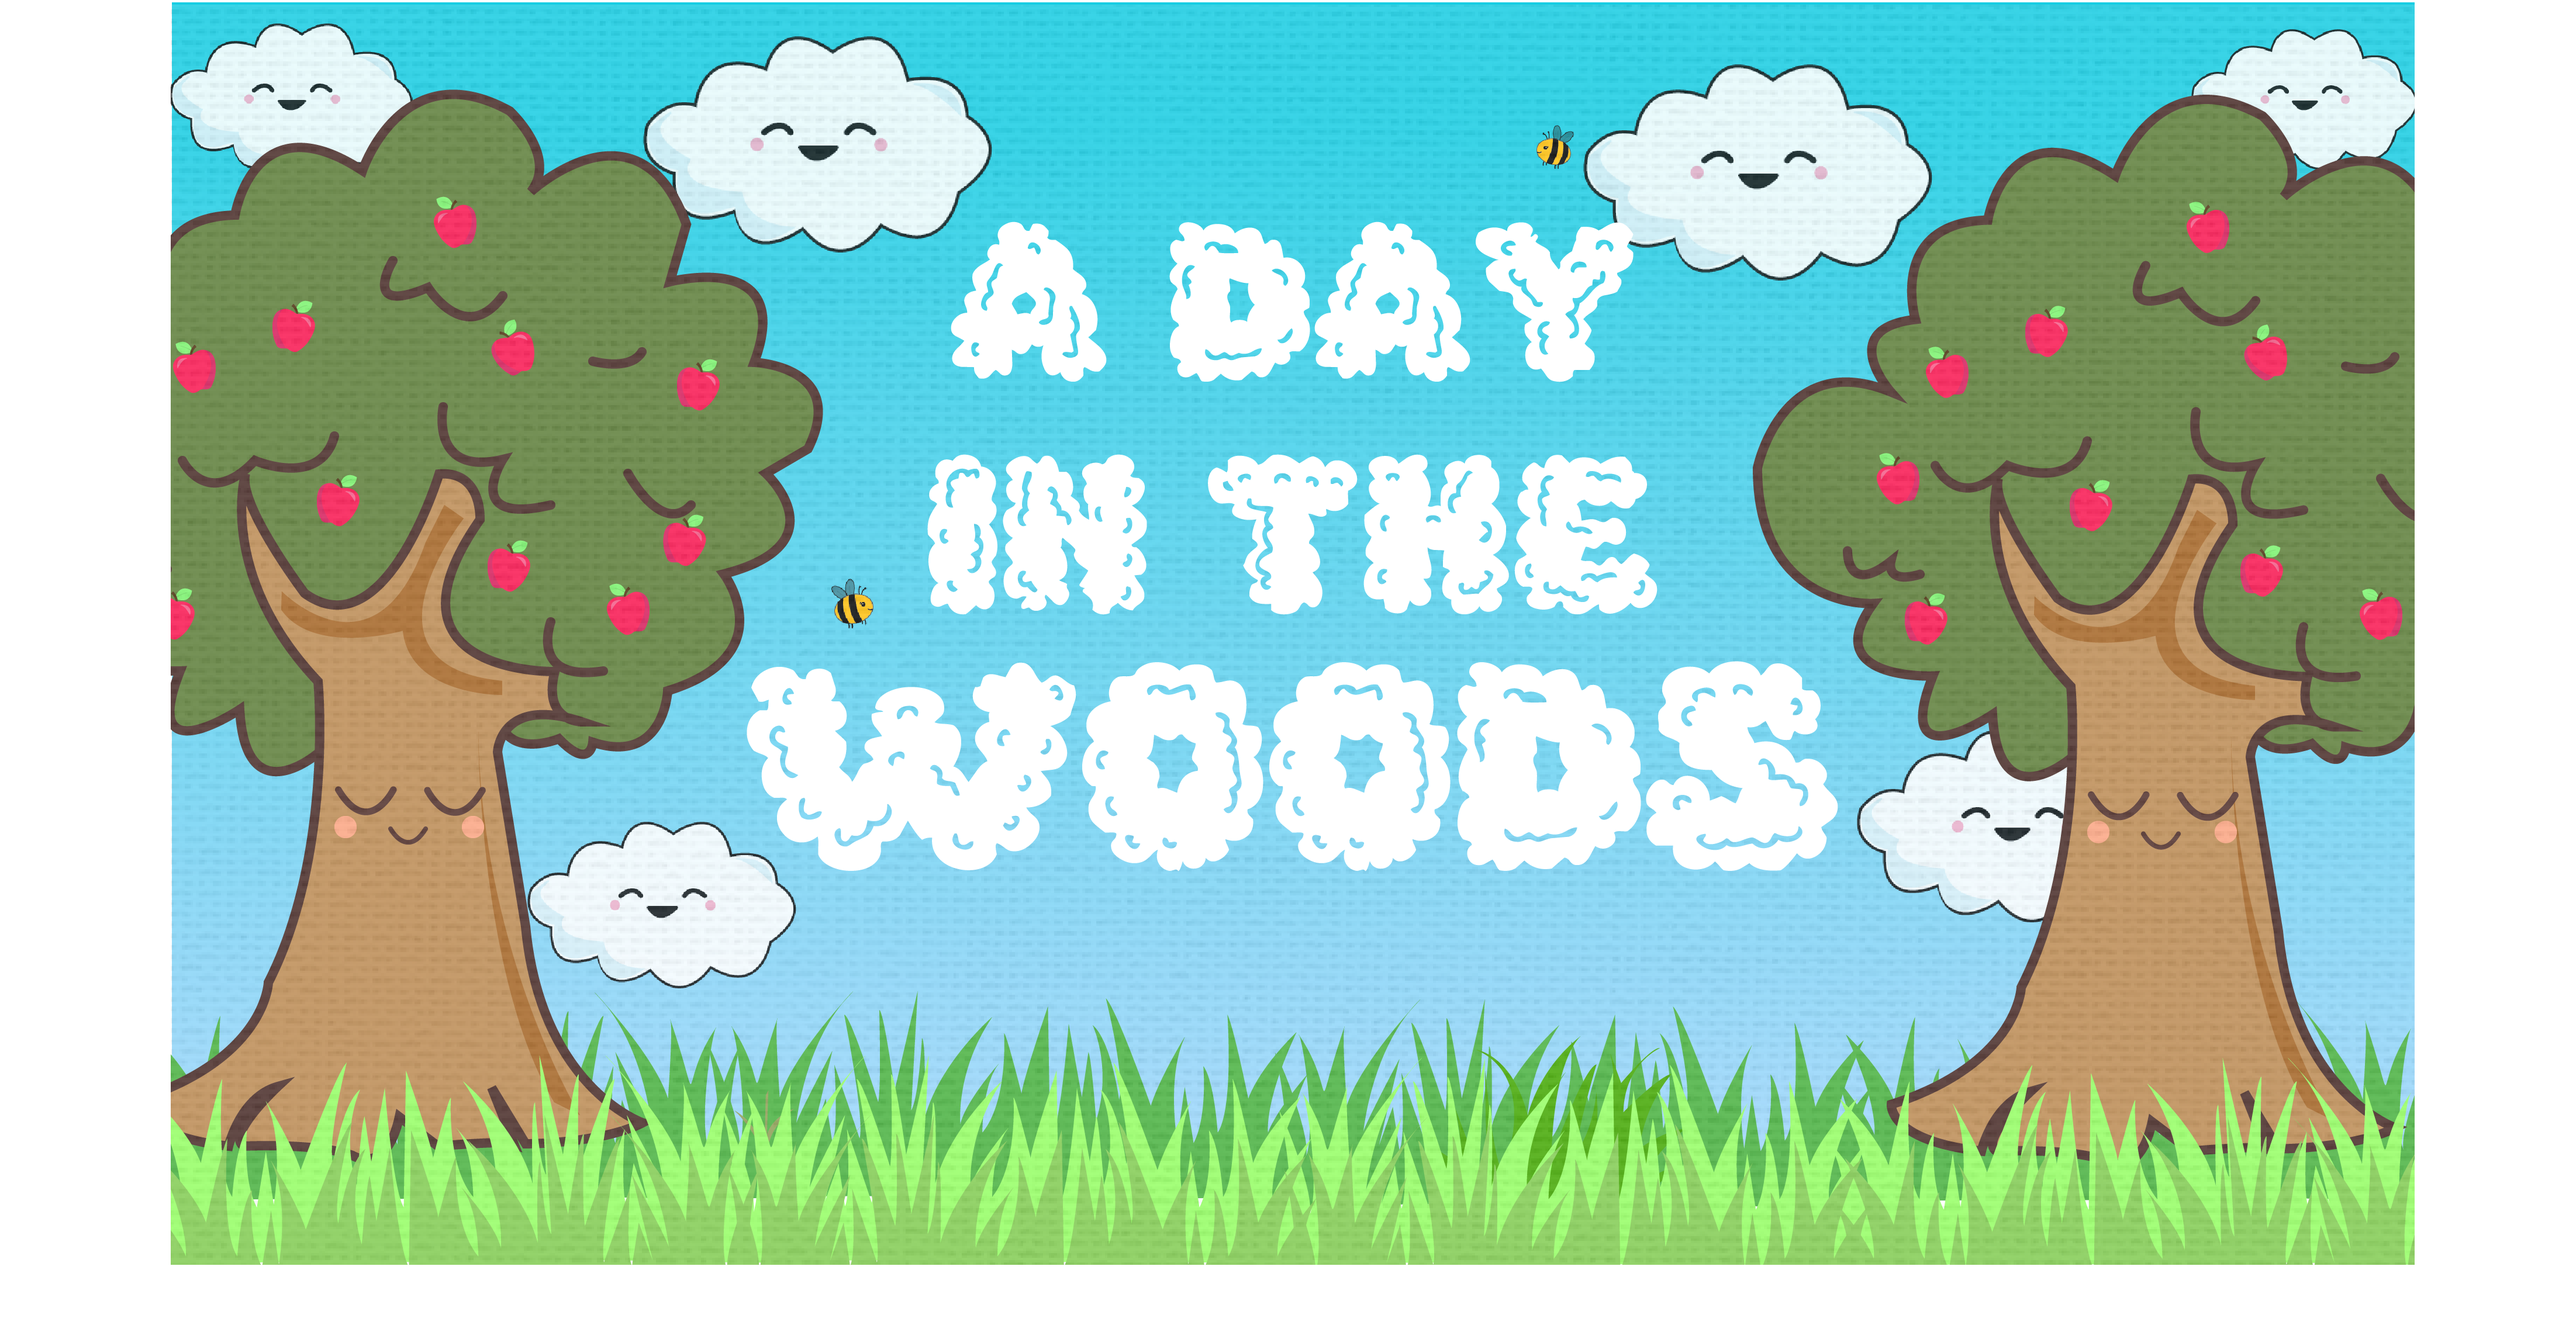
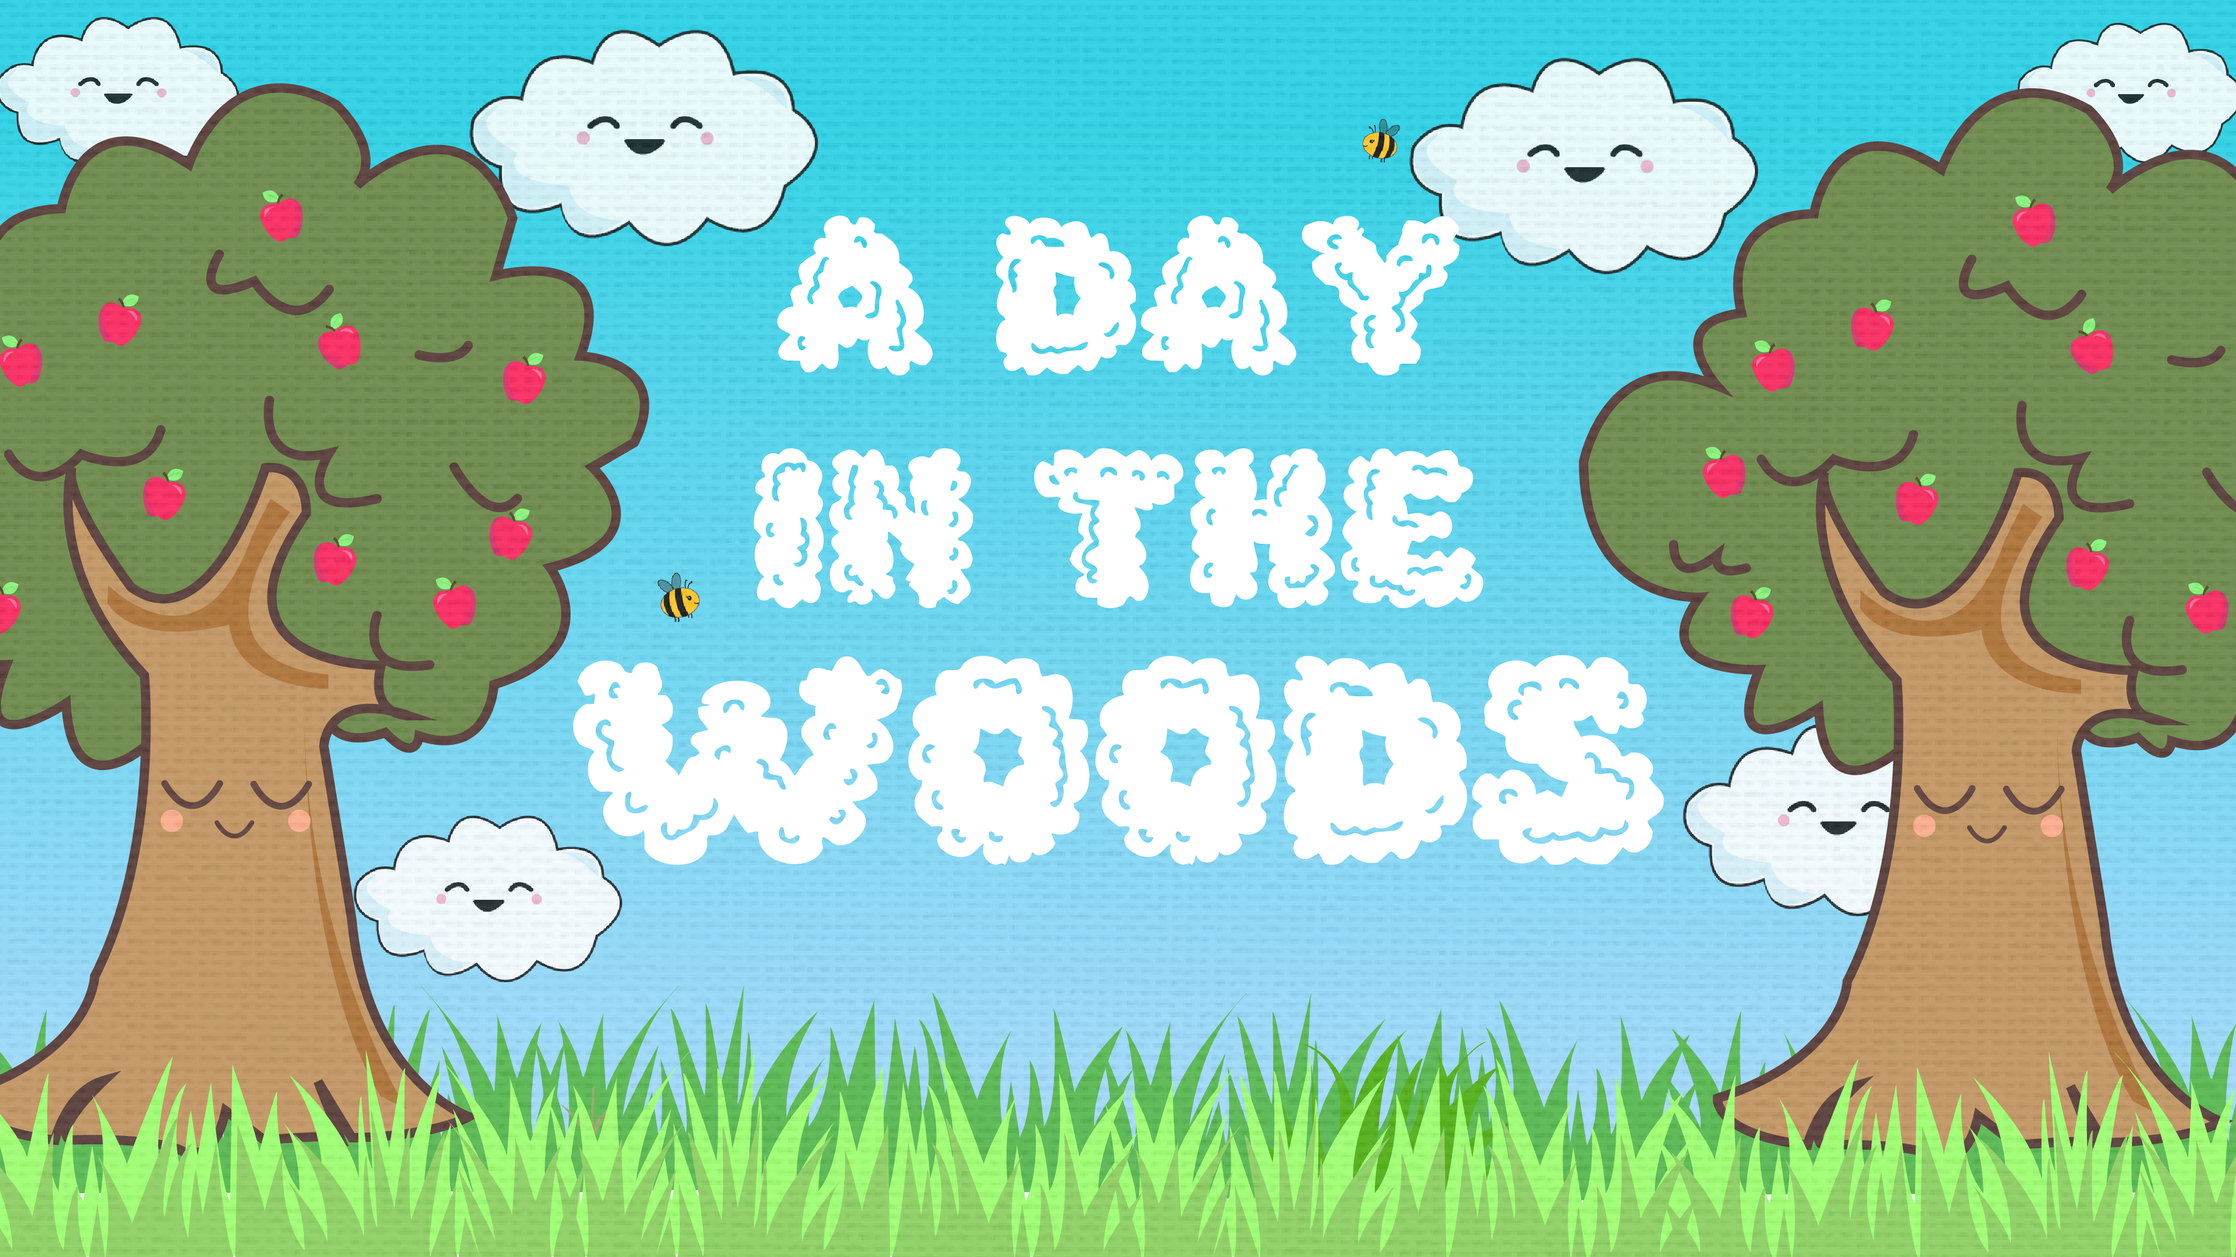
Edits

diff --git a/ARGO/ARGO/Gameplay.cpp b/ARGO/ARGO/Gameplay.cpp
@@ -12,6 +12,11 @@ Gameplay::Gameplay(Game& game, SDL_Renderer* t_renderer,SDL_Event& event, GameSt
 {
 	std::srand(std::time(nullptr));
 	m_numberPlayers = m_entity.size();
+
+	SDL_DisplayMode DM;
+	SDL_GetCurrentDisplayMode(0, &DM);
+	auto Width = DM.w;
+	auto Height = DM.h;
 	
 	//SDL_LoadWAV("ASSETS/AUDIO/intro.wav", &wavSpec, &wavBuffer, &wavLength);
 	//deviceId = SDL_OpenAudioDevice(NULL, 0, &wavSpec, NULL, 0);
@@ -47,19 +52,19 @@ Gameplay::Gameplay(Game& game, SDL_Renderer* t_renderer,SDL_Event& event, GameSt
 	m_DiceRect.push_back(SDL_Rect{ 1705,820,100,100 });
 
 	SDL_Surface* WinSurface;
-	WinSurface = IMG_Load("ASSETS/IMAGES/buttons/WinP1.png");
+	WinSurface = IMG_Load("ASSETS/IMAGES/buttons/PlayerWin1.png");
 	m_WinScreenTexture.push_back(SDL_CreateTextureFromSurface(m_renderer, WinSurface));
-	WinSurface = IMG_Load("ASSETS/IMAGES/buttons/WinP2.png");
+	WinSurface = IMG_Load("ASSETS/IMAGES/buttons/PlayerWin2.png");
 	m_WinScreenTexture.push_back(SDL_CreateTextureFromSurface(m_renderer, WinSurface));
-	WinSurface = IMG_Load("ASSETS/IMAGES/buttons/WinP3.png");
+	WinSurface = IMG_Load("ASSETS/IMAGES/buttons/PlayerWin3.png");
 	m_WinScreenTexture.push_back(SDL_CreateTextureFromSurface(m_renderer, WinSurface));
-	WinSurface = IMG_Load("ASSETS/IMAGES/buttons/WinP4.png");
+	WinSurface = IMG_Load("ASSETS/IMAGES/buttons/PlayerWin4.png");
 	m_WinScreenTexture.push_back(SDL_CreateTextureFromSurface(m_renderer, WinSurface));
 	WinSurface = IMG_Load("ASSETS/IMAGES/pic2Glass.png");
 	m_WinScreenTexture.push_back(SDL_CreateTextureFromSurface(m_renderer, WinSurface));
 
-	m_Winsscreen.h = 1080;
-	m_Winsscreen.w = 1920;
+	m_Winsscreen.h = Height*1.15;
+	m_Winsscreen.w = Width*1.15;
 	m_Winsscreen.x = 0;
 	m_Winsscreen.y = 0;
 

diff --git a/ARGO/ARGO/Game.cpp b/ARGO/ARGO/Game.cpp
@@ -29,9 +29,14 @@ Game::Game() :
 			printf("SDL could not initialize! SDL Error: %s\n", SDL_GetError());
 			throw "Error Loading SDL Audio";
 		}
-		// Create SDL Window Centred in Middle Of Screen
 
-		m_window = SDL_CreateWindow("A Day in the Woods", SDL_WINDOWPOS_CENTERED, SDL_WINDOWPOS_CENTERED, 1820, 980, NULL);
+		// Create SDL Window Centred in Middle Of Screen
+		
+		SDL_DisplayMode DM;
+		SDL_GetCurrentDisplayMode(0,&DM);
+		auto Width = DM.w;
+		auto Height = DM.h; 
+		m_window = SDL_CreateWindow("A Day in the Woods", SDL_WINDOWPOS_CENTERED, SDL_WINDOWPOS_CENTERED, Width, Height, NULL);
 
 		// Check if window was created correctly
 		if (!m_window) throw "Error Loading Window";

diff --git a/ARGO/ARGO/SplashScreen.cpp b/ARGO/ARGO/SplashScreen.cpp
@@ -20,8 +20,13 @@ SplashScreen::SplashScreen(Game& game, SDL_Renderer* t_renderer, SDL_Event& even
 	m_buttonSelectorTexture = (SDL_CreateTextureFromSurface(m_renderer, m_buttonSelectorSurface));
 	SDL_FreeSurface(m_buttonSelectorSurface);
 
+	SDL_DisplayMode DM;
+	SDL_GetCurrentDisplayMode(0, &DM);
+	auto Width = DM.w;
+	auto Height = DM.h;
+
 	m_buttonSelectorRect= { 800 ,700,200,200 };
-	m_titleRect = { -200,0,2200,1100 };
+	m_titleRect = { 0,0, Width,Height};
 
 }
 
